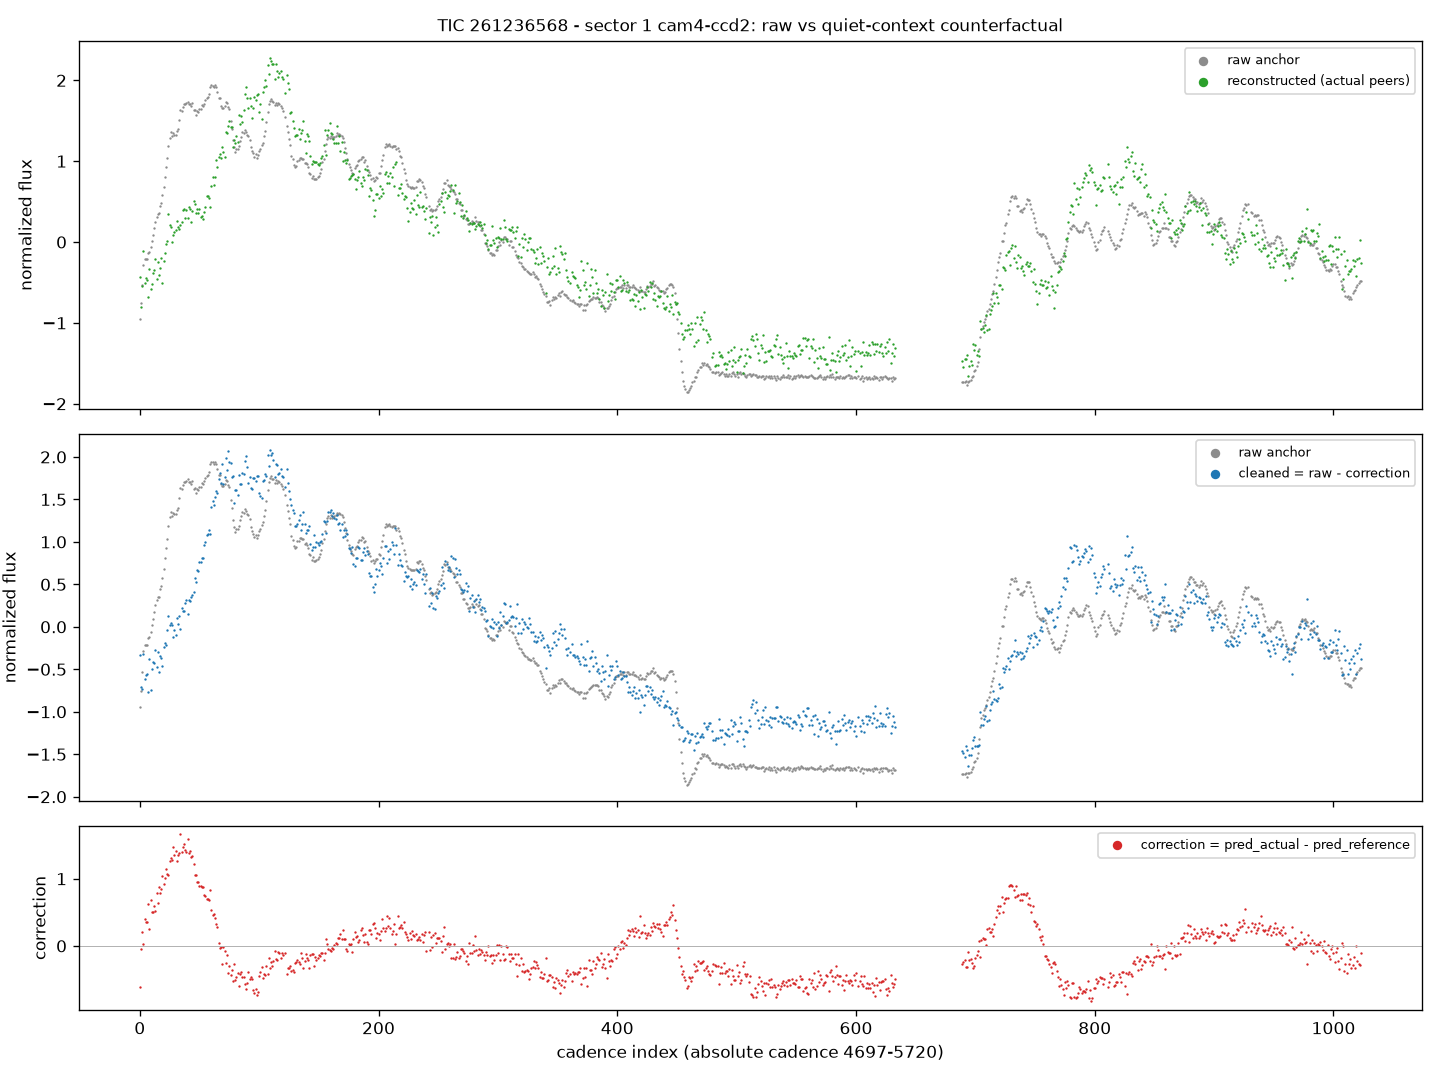
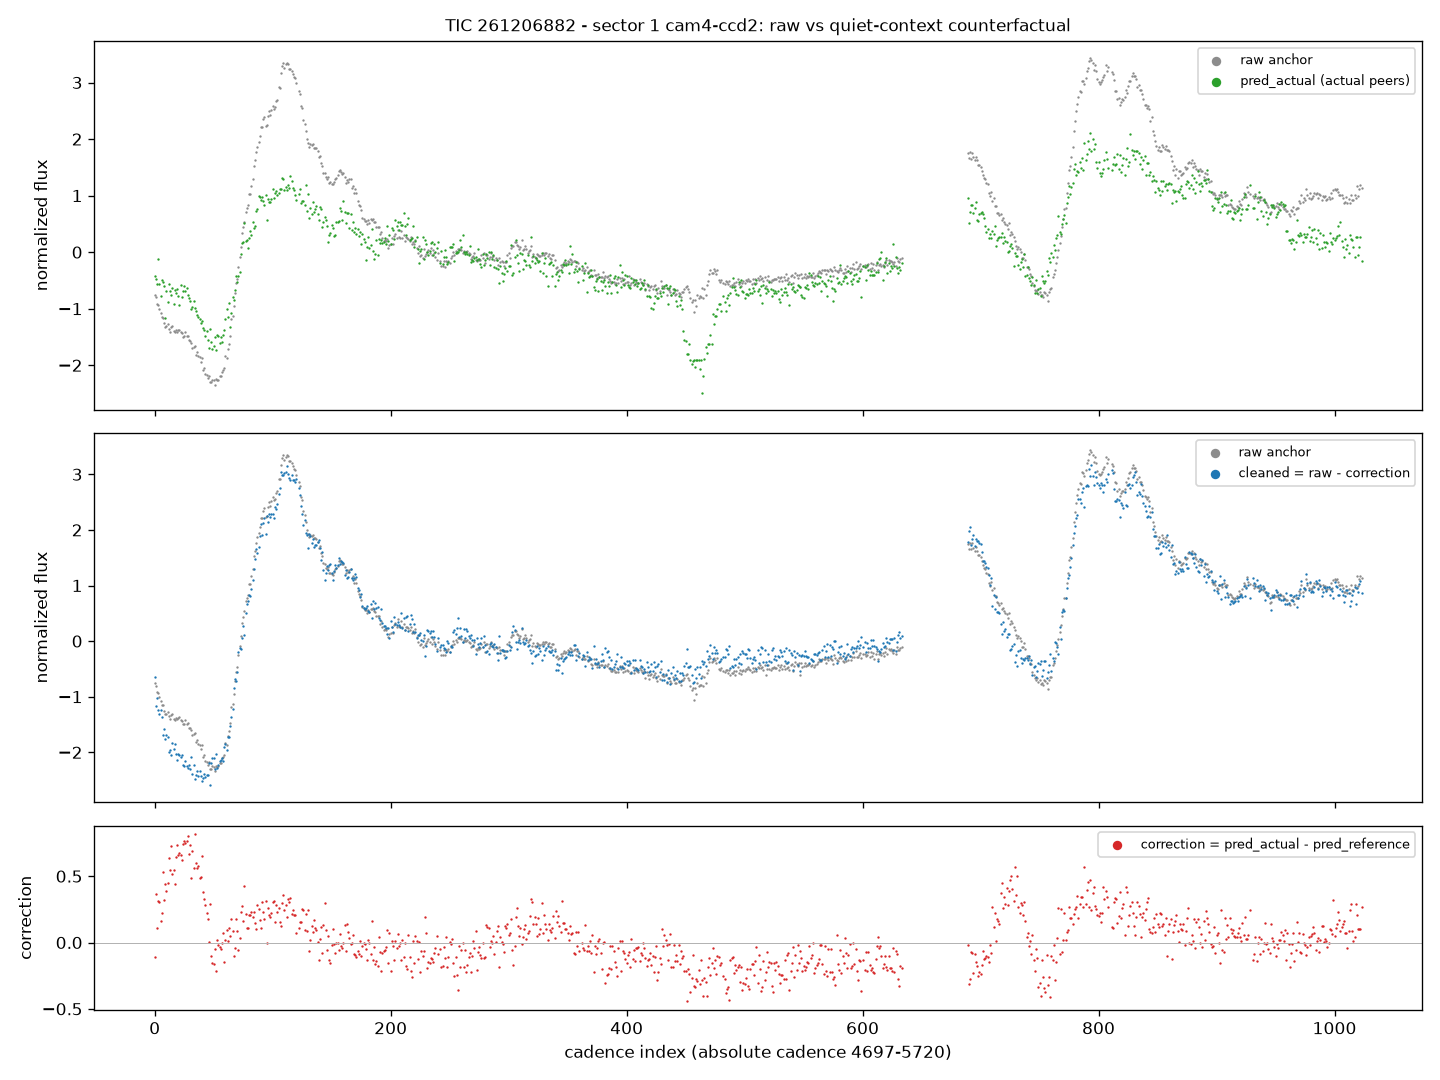
disentangle_attempt: correction is the difference between the two decoder passes
infer.py treated pred_reference as the cleaned curve and formed
correction = raw - pred_reference, which folds the decoder's reconstruction error and
any stellar detail the physics latent missed into the "instrument" correction. On
fast_strict that inflated correction RMS 0.2119 -> 0.7274 (3.4x), and the decoder's own
reconstruction error is RMS 0.6725 -- i.e. the old correction was mostly that error.

    correction = pred_actual - pred_reference
    cleaned    = raw - correction

dual_context_prediction now returns actual_prediction and reference_prediction under
those names; plot_curves.py carried the identical bug and produced every raw-vs-cleaned
figure so far. Adds an identity check (actual peers == reference peers must give
correction ~ 0), asserted in infer and as a smoke-test stage, plus assertions on the
equations and reference_context_prediction in the saved npz.

Inference-only: no retraining, no architecture, dataset, peer, loss or masking change.

diff --git a/disentangle_attempt/infer.py b/disentangle_attempt/infer.py
@@ -8,9 +8,13 @@ reference peers:
     correction = pred_actual - pred_reference
     cleaned    = raw_anchor - correction
 
-The correction is the decoder's estimate of what the actual detector neighbourhood
-adds relative to a quiet one. The cleaned curve is a counterfactual, NOT proven ground
-truth and NOT a measured correction.
+pred_reference is NOT the cleaned curve: it carries the decoder's reconstruction error
+too, so subtracting it from raw would attribute that error to the instrument. Only the
+DIFFERENCE between the two decoder passes isolates what the actual neighbourhood adds
+relative to a quiet one.
+
+The cleaned curve is a counterfactual, NOT proven ground truth and NOT a measured
+correction.
 
     python -m disentangle_attempt.infer \
       --checkpoint disentangle_attempt/outputs/<run_name>/best.pt --tic-id <TIC_ID>
@@ -39,11 +43,23 @@ HERE = os.path.dirname(os.path.abspath(__file__))
 # ------------------------------------------------------------------- prediction
 @torch.no_grad()
 def dual_context_prediction(model, raw, valid, actual_peers, actual_peer_mask,
-                            quiet_peers, quiet_peer_mask, masks, device, stitch=True):
+                            reference_peers, reference_peer_mask, masks, device,
+                            stitch=True):
     """Predictions under both instrument contexts, sharing one physics pass per mask.
 
-    raw/valid [B, L]; peers [B, P, L]; masks [K, L]. Returns actual [B, L],
-    cleaned [B, L], physics tokens [B, K, T, D] and both peer token sets.
+    Returns the TWO DECODER PREDICTIONS, not a cleaned curve:
+
+        actual_prediction    decoded with the target's real nearest peers
+        reference_prediction decoded with the quiet reference peers
+
+    The caller forms
+        correction = actual_prediction - reference_prediction
+        cleaned    = raw - correction
+    Treating reference_prediction as the cleaned curve is wrong: it also carries the
+    decoder's reconstruction error and whatever stellar detail the physics latent
+    failed to encode, and both would land in the "correction".
+
+    raw/valid [B, L]; peers [B, P, L]; masks [K, L].
 
     stitch=True keeps only each mask's hidden block, so every cadence was predicted
     while invisible to the physics encoder.
@@ -54,26 +70,40 @@ def dual_context_prediction(model, raw, valid, actual_peers, actual_peer_mask,
     raw, valid = raw.to(device), valid.to(device)
     actual_tokens, actual_context = model.encode_peers(actual_peers.to(device),
                                                        actual_peer_mask.to(device))
-    quiet_tokens, quiet_context = model.encode_peers(quiet_peers.to(device),
-                                                     quiet_peer_mask.to(device))
+    reference_tokens, reference_context = model.encode_peers(
+        reference_peers.to(device), reference_peer_mask.to(device))
 
     actual_prediction = torch.zeros(B, L, device=device)
-    cleaned_prediction = torch.zeros(B, L, device=device)
+    reference_prediction = torch.zeros(B, L, device=device)
     physics_tokens = []
     for k in range(masks.shape[0]):
         hidden = masks[k].to(device).unsqueeze(0).expand(B, L)
         tokens = model.encode_physics(raw.masked_fill(hidden, 0.0), valid & ~hidden)
         latent = tokens.flatten(1)
         with_actual = model.decoder(torch.cat([latent, actual_context], dim=-1))
-        with_quiet = model.decoder(torch.cat([latent, quiet_context], dim=-1))
+        with_reference = model.decoder(torch.cat([latent, reference_context], dim=-1))
         if stitch:
             actual_prediction[:, masks[k]] = with_actual[:, masks[k]]
-            cleaned_prediction[:, masks[k]] = with_quiet[:, masks[k]]
+            reference_prediction[:, masks[k]] = with_reference[:, masks[k]]
         else:
-            actual_prediction, cleaned_prediction = with_actual, with_quiet
+            actual_prediction, reference_prediction = with_actual, with_reference
         physics_tokens.append(tokens)
-    return (actual_prediction.cpu(), cleaned_prediction.cpu(),
-            torch.stack(physics_tokens, dim=1).cpu(), actual_tokens.cpu(), quiet_tokens.cpu())
+    return (actual_prediction.cpu(), reference_prediction.cpu(),
+            torch.stack(physics_tokens, dim=1).cpu(), actual_tokens.cpu(),
+            reference_tokens.cpu())
+
+
+@torch.no_grad()
+def identity_correction_check(model, raw, valid, peers, peer_mask, masks, device):
+    """Identical contexts must cancel: correction ~ 0, cleaned ~ raw.
+
+    Anything above numerical noise here means the two decoder passes are not being
+    differenced, which is exactly the bug this guards.
+    """
+    actual, reference, _, _, _ = dual_context_prediction(
+        model, raw, valid, peers, peer_mask, peers, peer_mask, masks, device)
+    correction = (actual - reference).numpy()
+    return float(np.abs(correction[valid.numpy()]).max())
 
 
 # ------------------------------------------------------------------------ plots
@@ -84,7 +114,7 @@ def plot_correction(cadence_ids, raw, reconstructed, cleaned, correction, valid,
     x = np.arange(len(raw))
     axes[0].scatter(x[valid], raw[valid], s=2, color="0.55", linewidths=0, label="raw anchor")
     axes[0].scatter(x[valid], reconstructed[valid], s=2, color="tab:green", linewidths=0,
-                    label="reconstructed (actual peers)")
+                    label="pred_actual (actual peers)")
     axes[0].set_ylabel("normalized flux")
     axes[0].legend(loc="upper right", fontsize=8, markerscale=4)
     axes[0].set_title(title, fontsize=10)
@@ -191,33 +221,53 @@ def main():
 
     raw = torch.from_numpy(patch.X[row]).unsqueeze(0)
     valid = torch.from_numpy(patch.M[row]).unsqueeze(0)
-    actual, cleaned, physics_tokens, actual_tokens, quiet_tokens = dual_context_prediction(
+    actual_pred, reference_pred, physics_tokens, actual_tokens, reference_tokens = dual_context_prediction(
         model, raw, valid,
         torch.from_numpy(patch.X[peer_rows]).unsqueeze(0),
         torch.from_numpy(patch.M[peer_rows]).unsqueeze(0),
         quiet["peer_raw"].unsqueeze(0), quiet["peer_mask"].unsqueeze(0), masks, device)
 
     raw_np = patch.X[row]
-    cleaned_np = cleaned[0].numpy()
-    correction = raw_np - cleaned_np
+    actual_np = actual_pred[0].numpy()
+    reference_np = reference_pred[0].numpy()
+    # The correction is the DIFFERENCE BETWEEN THE TWO DECODER PASSES -- what the actual
+    # neighbourhood adds relative to a quiet one. Using raw - reference instead would
+    # fold the decoder's reconstruction error into the correction.
+    correction = actual_np - reference_np
+    cleaned_np = raw_np - correction
     output_mask = patch.M[row]
     cadence_ids = patch.grids[sector]
+
+    valid = patch.M[row]
+    assert np.allclose(correction[valid], (actual_np - reference_np)[valid], atol=1e-6)
+    assert np.allclose(cleaned_np[valid], (raw_np - correction)[valid], atol=1e-6)
+
+    identity_max = identity_correction_check(
+        model, torch.from_numpy(patch.X[row]).unsqueeze(0),
+        torch.from_numpy(patch.M[row]).unsqueeze(0),
+        torch.from_numpy(patch.X[peer_rows]).unsqueeze(0),
+        torch.from_numpy(patch.M[peer_rows]).unsqueeze(0), masks, device)
+    assert identity_max < 1e-5, \
+        f"identical contexts gave a correction of {identity_max:.3e}, expected ~0"
+    print(f"identity check (actual peers == reference peers): max |correction| "
+          f"{identity_max:.3e}", flush=True)
 
     np.savez(
         os.path.join(out_dir, "inference_arrays.npz"),
         tic_id=np.int64(patch.tic_int[row]), sector=np.int64(sector),
         camera=np.int64(patch.target[1]), ccd=np.int64(patch.target[2]),
         cadence_ids=cadence_ids, raw_target=raw_np, target_valid_mask=output_mask,
-        actual_context_prediction=actual[0].numpy(),
-        cleaned_curve=cleaned_np, correction_curve=correction, output_mask=output_mask,
+        actual_context_prediction=actual_np,
+        reference_context_prediction=reference_np,
+        correction_curve=correction, cleaned_curve=cleaned_np, output_mask=output_mask,
         physics_tokens=physics_tokens[0].numpy(),
         actual_instrument_tokens=actual_tokens[0].numpy(),
-        reference_instrument_tokens=quiet_tokens[0].numpy(),
+        reference_instrument_tokens=reference_tokens[0].numpy(),
         actual_peer_tic_ids=patch.tic_int[peer_rows],
         actual_peer_distances=peer_distances,
         quiet_peer_tic_ids=np.asarray([patch.tic_int[int(r)] for r in quiet["peer_rows"]]))
 
-    plot_correction(cadence_ids, raw_np, actual[0].numpy(), cleaned_np, correction,
+    plot_correction(cadence_ids, raw_np, actual_np, cleaned_np, correction,
                     output_mask,
                     f"TIC {patch.tic[row]} - sector {sector} cam{patch.target[1]}"
                     f"-ccd{patch.target[2]}: raw vs quiet-context counterfactual",

diff --git a/disentangle_attempt/smoke_test.py b/disentangle_attempt/smoke_test.py
@@ -139,6 +139,31 @@ def check_masking(batch):
           f"{float(runs):.1f} windows/row, 4 complementary masks tile the curve)")
 
 
+def check_correction_identity(patch, device):
+    """Identical instrument contexts must cancel: correction ~ 0, cleaned ~ raw.
+
+    Guards the equation itself. If the caller ever reverts to raw - pred_reference,
+    this fires, because that difference is the decoder's reconstruction error and does
+    not vanish when the two contexts are the same.
+    """
+    from disentangle_attempt.infer import identity_correction_check
+    from disentangle_attempt.masking import complementary_masks
+    model = DisentangleModel(d_model=CONFIG["d_model"], n_layers=CONFIG["n_layers"],
+                             dropout=0.0, n_peers=P, n_tokens=T, token_dim=D,
+                             curve_length=L).to(device)
+    model.eval()
+    row = int(patch.split_anchors["train"][0])
+    peers = patch.peers_for_row(row, "train")[0]
+    largest = identity_correction_check(
+        model, torch.from_numpy(patch.X[row]).unsqueeze(0),
+        torch.from_numpy(patch.M[row]).unsqueeze(0),
+        torch.from_numpy(patch.X[peers]).unsqueeze(0),
+        torch.from_numpy(patch.M[peers]).unsqueeze(0),
+        complementary_masks(L, n_masks=4), device)
+    assert largest < 1e-5, f"identical contexts gave |correction| {largest:.3e}"
+    print(f"  identity check OK: max |correction| {largest:.3e} with identical contexts")
+
+
 def check_forward_and_gradients(batch, device):
     model = DisentangleModel(d_model=CONFIG["d_model"], n_layers=CONFIG["n_layers"],
                              dropout=0.0, n_peers=P, n_tokens=T, token_dim=D,
@@ -229,6 +254,9 @@ def main():
     check_masking(batch)
     print("[4/5] forward and gradient flow")
     check_forward_and_gradients(batch, device)
+    if patch is not None:
+        print("[4b/5] inference identity check")
+        check_correction_identity(patch, device)
     print(f"[5/5] tiny overfit on {len(batches)} steps")
     tiny_overfit(batches, device)
     print("\nALL SMOKE TESTS PASSED")

diff --git a/disentangle_attempt/plot_curves.py b/disentangle_attempt/plot_curves.py
@@ -62,16 +62,19 @@ def main():
     peers = np.stack([patch.peers_for_row(r, "test")[0] for r in rows])
     raw = torch.from_numpy(patch.X[rows])
     valid = torch.from_numpy(patch.M[rows])
-    _, cleaned, _, _, _ = dual_context_prediction(
+    actual_pred, reference_pred, _, _, _ = dual_context_prediction(
         model, raw, valid,
         torch.from_numpy(patch.X[peers]), torch.from_numpy(patch.M[peers]),
         quiet["peer_raw"].unsqueeze(0).expand(len(rows), -1, -1),
         quiet["peer_mask"].unsqueeze(0).expand(len(rows), -1, -1), masks, device)
+    # correction = pred_actual - pred_reference; cleaned = raw - correction.
+    correction = (actual_pred - reference_pred).numpy()
 
     hidden = masks[args.mask_index].numpy()
     fig, axes = plt.subplots(len(rows), 1, figsize=(11, 2.2 * len(rows)), sharex=True)
     axes = np.atleast_1d(axes)
-    for ax, row, curve in zip(axes, rows, cleaned):
+    for k, (ax, row) in enumerate(zip(axes, rows)):
+        curve = patch.X[row] - correction[k]
         keep = patch.M[row]
         x = np.arange(len(keep))
         # Both series exist at EVERY valid cadence; the encoder input is the anchor
@@ -81,8 +84,8 @@ def main():
                    label="anchor / raw target (all valid cadences)")
         ax.scatter(x[keep], encoder_input[keep], s=2.0, color="tab:orange", linewidths=0,
                    label=f"physics encoder input (mask {args.mask_index}: hidden -> 0)")
-        ax.scatter(x[keep], curve.numpy()[keep], s=2.0, color="tab:blue", linewidths=0,
-                   label="cleaned")
+        ax.scatter(x[keep], curve[keep], s=2.0, color="tab:blue", linewidths=0,
+                   label="cleaned = raw - correction")
         ax.set_ylabel(f"TIC {patch.tic[row]}", fontsize=7)
     axes[0].legend(loc="upper right", fontsize=7, ncol=3, markerscale=4)
     axes[-1].set_xlabel("cadence index")
